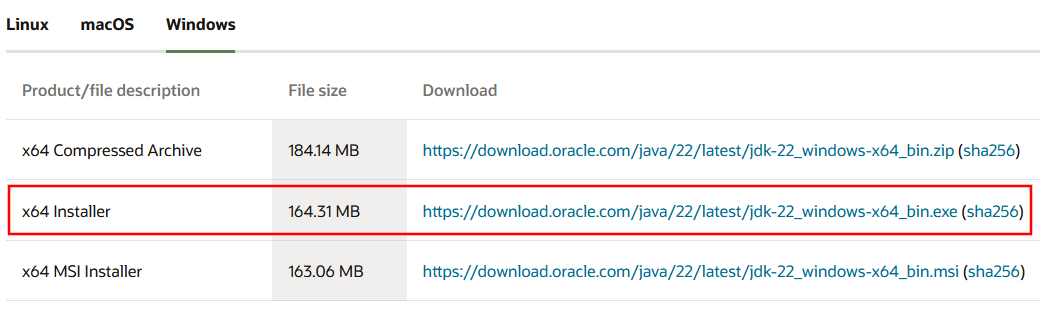
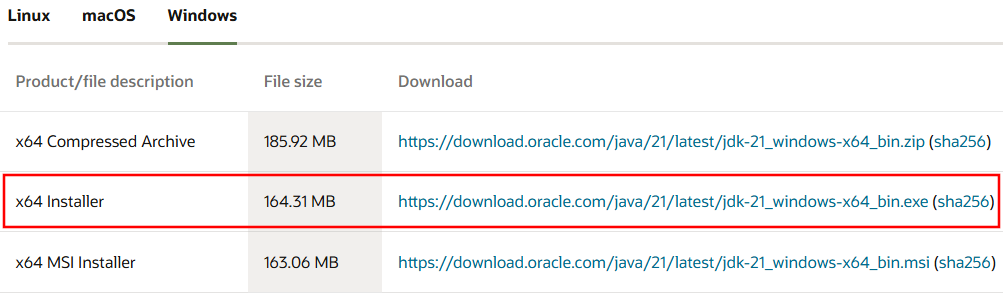
128 home 2

diff --git a/src/main/webapp/WEB-INF/templates/articles/toc.html b/src/main/webapp/WEB-INF/templates/articles/toc.html
@@ -14,6 +14,12 @@
 
 <article>
 
+<th:block th:replace="~{thymeleaf/menu :: index}"></th:block>
+
+<th:block th:replace="~{spring-security/menu :: index}"></th:block>
+
+<th:block th:replace="~{board/menu :: index}"></th:block>
+
 <h1>개발환경 준비</h1>
 
 <h3>Java</h3>
@@ -24,7 +30,7 @@ https://www.oracle.com/java/technologies/downloads<br />
 </p>
 
 <p>
-<img src="../../../static/images/java-latest-x64-installer.png" th:src="@{/static/images/java-latest-x64-installer.png}" alt="최신 자바 x64 Installer 선택" /><br />
+<img src="../../../static/images/Java-latest.png" th:src="@{/static/images/Java-latest.png}" alt="최신 자바 x64 Installer 선택" /><br />
 </p>
 
 <p>
@@ -94,7 +100,7 @@ C:\Windows;
 C:\Windows\System32\Wbem;
 C:\Windows\System32\WindowsPowerShell\v1.0\;
 C:\Windows\System32\OpenSSH\;
-<strong>C:\Program Files\Java\jdk-22\bin;</strong>
+<strong>C:\Program Files\Java\jdk-21\bin;</strong>
 </pre>
 
 <h3>Maven</h3>
@@ -396,9 +402,6 @@ startup.bat를 실행하면 새로운 명령 프롬프트창이 실행되면서 
 <img src="../../../static/images/logging_properties2.png" th:src="@{/static/images/logging_properties2.png}" alt="logging.properties 편집 후 화면" />
 </p>
 
-<th:block th:replace="~{thymeleaf/menu :: index}"></th:block>
-
-<th:block th:replace="~{spring-security/menu :: index}"></th:block>
 
 <h1>게시판 구현을 위한 타임리프 테스트</h1>
 

diff --git a/src/main/webapp/WEB-INF/templates/articles/toc_en.html b/src/main/webapp/WEB-INF/templates/articles/toc_en.html
@@ -22,7 +22,7 @@ https://www.oracle.com/java/technologies/downloads<br />
 </p>
 
 <p>
-<img src="../../../static/images/java-latest-x64-installer.png" th:src="@{/static/images/java-latest-x64-installer.png}" alt="최신 자바 x64 Installer 선택" /><br />
+<img src="../../../static/images/Java-latest.png" th:src="@{/static/images/Java-latest.png}" alt="최신 자바 x64 Installer 선택" /><br />
 </p>
 
 <p>
